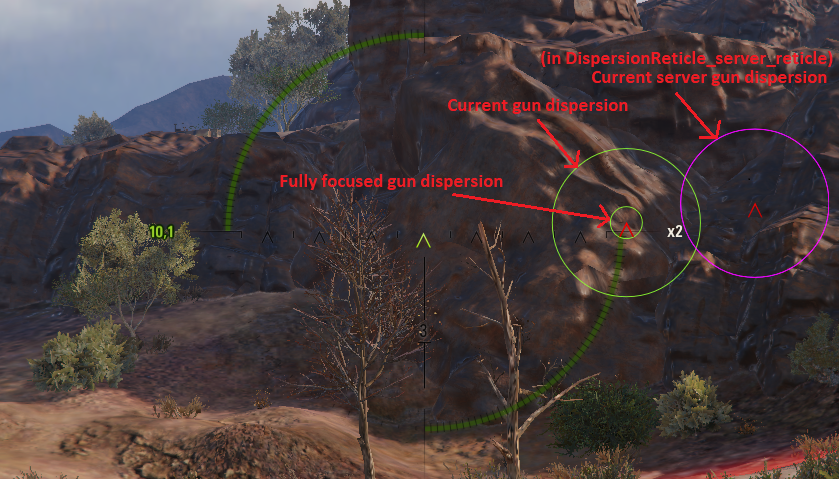
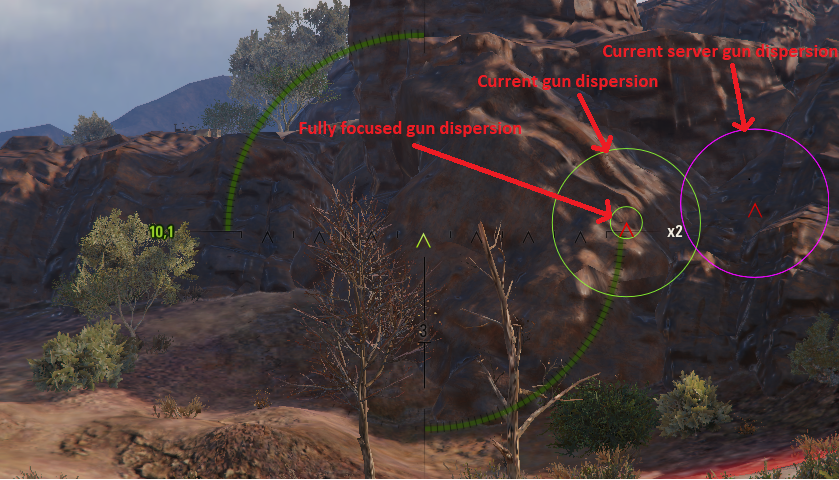
Support for server only reticle

Changed region(s): [[0.3409, 0.0938, 1.0, 0.4688], [0.6508, 0.2812, 0.7128, 0.3438], [0.7128, 0.2812, 0.7437, 0.3125]]

diff --git a/src/mod_DispersionReticle.py b/src/mod_DispersionReticle.py
@@ -24,10 +24,19 @@ from gui.battle_control.controllers.crosshair_proxy import _GUN_MARKERS_SET_IDS
 # One is normal, the second is with both client and server reticle.
 # Because there are no very much changes between
 # them, they're merged into one file.
-MOD_VERSION_NORMAL = 0
-MOD_VERSION_CLIENT_SERVER = 1
+MOD_VERSION_DISP = 0
+MOD_VERSION_DISP_CLIENT_SERVER = 1
+MOD_VERSION_CLIENT_SERVER = 2
 
-MOD_VERSION_CURRENT = MOD_VERSION_NORMAL
+MOD_VERSION_CURRENT = MOD_VERSION_CLIENT_SERVER
+
+
+def is_version_disp():
+    return MOD_VERSION_CURRENT == MOD_VERSION_DISP or MOD_VERSION_CURRENT == MOD_VERSION_DISP_CLIENT_SERVER
+
+
+def is_version_server():
+    return MOD_VERSION_CURRENT == MOD_VERSION_CLIENT_SERVER or MOD_VERSION_CURRENT == MOD_VERSION_DISP_CLIENT_SERVER
 
 
 # Utility decorator to override function in certain class/module
@@ -176,16 +185,21 @@ class _NewControlMarkersFactory(_ControlMarkersFactory):
     def _createDefaultMarkers(self):
         markerType = self._getMarkerType()
 
-        if MOD_VERSION_CURRENT == MOD_VERSION_CLIENT_SERVER:
+        if is_version_server():
             clientType = selectProperType(GUN_MARKER_TYPE.CLIENT, markerType)
             clientFocusType = selectProperType(GUN_MARKER_TYPE_CLIENT_FOCUS, markerType)
             serverType = selectProperType(GUN_MARKER_TYPE.SERVER, markerType)
 
-            result = (
-                self._createArcadeMarker(clientType, _CONSTANTS.ARCADE_GUN_MARKER_NAME),
-                self._createArcadeMarker(clientFocusType, ARCADE_FOCUS_GUN_MARKER_NAME),
-                self._createSniperMarker(clientType, _CONSTANTS.SNIPER_GUN_MARKER_NAME),
-                self._createSniperMarker(clientFocusType, SNIPER_FOCUS_GUN_MARKER_NAME))
+            if is_version_disp():
+                result = (
+                    self._createArcadeMarker(clientType, _CONSTANTS.ARCADE_GUN_MARKER_NAME),
+                    self._createArcadeMarker(clientFocusType, ARCADE_FOCUS_GUN_MARKER_NAME),
+                    self._createSniperMarker(clientType, _CONSTANTS.SNIPER_GUN_MARKER_NAME),
+                    self._createSniperMarker(clientFocusType, SNIPER_FOCUS_GUN_MARKER_NAME))
+            else:
+                result = (
+                    self._createArcadeMarker(clientType, _CONSTANTS.ARCADE_GUN_MARKER_NAME),
+                    self._createSniperMarker(clientType, _CONSTANTS.SNIPER_GUN_MARKER_NAME))
 
             if markerType == GUN_MARKER_TYPE.SERVER:
                 result += (
@@ -204,16 +218,21 @@ class _NewControlMarkersFactory(_ControlMarkersFactory):
     def _createSPGMarkers(self):
         markerType = self._getMarkerType()
 
-        if MOD_VERSION_CURRENT == MOD_VERSION_CLIENT_SERVER:
+        if is_version_server():
             clientType = selectProperType(GUN_MARKER_TYPE.CLIENT, markerType)
             clientFocusType = selectProperType(GUN_MARKER_TYPE_CLIENT_FOCUS, markerType)
             serverType = selectProperType(GUN_MARKER_TYPE.SERVER, markerType)
 
-            result = (
-                self._createArcadeMarker(clientType, _CONSTANTS.ARCADE_GUN_MARKER_NAME),
-                self._createArcadeMarker(clientFocusType, ARCADE_FOCUS_GUN_MARKER_NAME),
-                self._createSPGMarker(clientType, _CONSTANTS.SPG_GUN_MARKER_NAME),
-                self._createSPGMarker(clientFocusType, SPG_FOCUS_GUN_MARKER_NAME))
+            if is_version_disp():
+                result = (
+                    self._createArcadeMarker(clientType, _CONSTANTS.ARCADE_GUN_MARKER_NAME),
+                    self._createArcadeMarker(clientFocusType, ARCADE_FOCUS_GUN_MARKER_NAME),
+                    self._createSPGMarker(clientType, _CONSTANTS.SPG_GUN_MARKER_NAME),
+                    self._createSPGMarker(clientFocusType, SPG_FOCUS_GUN_MARKER_NAME))
+            else:
+                result = (
+                    self._createArcadeMarker(clientType, _CONSTANTS.ARCADE_GUN_MARKER_NAME),
+                    self._createSPGMarker(clientType, _CONSTANTS.SPG_GUN_MARKER_NAME))
 
             if markerType == GUN_MARKER_TYPE.SERVER:
                 result += (
@@ -232,16 +251,21 @@ class _NewControlMarkersFactory(_ControlMarkersFactory):
     def _createDualGunMarkers(self):
         markerType = self._getMarkerType()
 
-        if MOD_VERSION_CURRENT == MOD_VERSION_CLIENT_SERVER:
+        if is_version_server():
             clientType = selectProperType(GUN_MARKER_TYPE.CLIENT, markerType)
             clientFocusType = selectProperType(GUN_MARKER_TYPE_CLIENT_FOCUS, markerType)
             serverType = selectProperType(GUN_MARKER_TYPE.SERVER, markerType)
 
-            result = (
-                self._createArcadeMarker(clientType, _CONSTANTS.DUAL_GUN_ARCADE_MARKER_NAME),
-                self._createArcadeMarker(clientFocusType, DUAL_FOCUS_GUN_ARCADE_MARKER_NAME),
-                self._createSniperMarker(clientType, _CONSTANTS.DUAL_GUN_SNIPER_MARKER_NAME),
-                self._createSniperMarker(clientFocusType, DUAL_FOCUS_GUN_SNIPER_MARKER_NAME))
+            if is_version_disp():
+                result = (
+                    self._createArcadeMarker(clientType, _CONSTANTS.DUAL_GUN_ARCADE_MARKER_NAME),
+                    self._createArcadeMarker(clientFocusType, DUAL_FOCUS_GUN_ARCADE_MARKER_NAME),
+                    self._createSniperMarker(clientType, _CONSTANTS.DUAL_GUN_SNIPER_MARKER_NAME),
+                    self._createSniperMarker(clientFocusType, DUAL_FOCUS_GUN_SNIPER_MARKER_NAME))
+            else:
+                result = (
+                    self._createArcadeMarker(clientType, _CONSTANTS.DUAL_GUN_ARCADE_MARKER_NAME),
+                    self._createSniperMarker(clientType, _CONSTANTS.DUAL_GUN_SNIPER_MARKER_NAME))
 
             if markerType == GUN_MARKER_TYPE.SERVER:
                 result += (
@@ -444,14 +468,14 @@ def createGunMarker(func, isStrategic):
 
 @overrideIn(gun_marker_ctrl)
 def useClientGunMarker(func):
-    if MOD_VERSION_CURRENT == MOD_VERSION_CLIENT_SERVER:
+    if is_version_server():
         return True
     return func()
 
 
 @overrideIn(gun_marker_ctrl)
 def useDefaultGunMarkers(func):
-    if MOD_VERSION_CURRENT == MOD_VERSION_CLIENT_SERVER:
+    if is_version_server():
         return False
     return func()
 

diff --git a/README.md b/README.md
@@ -4,10 +4,18 @@ Updated and completely reworked mod that adds additional circle displaying fully
 Original idea by **StranikS_Scan**, completely reworked by me.
 
 ## Features
+**DispersionReticle**:
+- closest to vanilla behavior
 - shows additional reticle displaying fully focused dispersion of a gun
 - works well with "Use server reticle" option from game settings
 - works well in replays
-- (DispersionReticle_server_reticle) display both client and server reticles with "Use server reticle" option
+
+**DispersionReticle_server**:
+- always shows client reticle only (without dispersion reticle)
+- **"Use server reticle"** option additionally shows server reticle
+
+**DispersionReticle_all**:
+- combines features of **DispersionReticle** and **DispersionReticle_server**
 
 ## Resource
 - [WGMods](https://wgmods.net/5251/)
@@ -18,14 +26,19 @@ Original idea by **StranikS_Scan**, completely reworked by me.
 For vanilla behavior with gun dispersion (adds dispersion reticle to client/server reticle):
 - Copy "DispersionReticle.wotmod" file into "[WoT game directory]/mods/[version]/" directory
 
-For both client and server crosshair with gun dispersion:
-- Copy "DispersionReticle_server_reticle.wotmod" file into "[WoT game directory]/mods/[version]/" directory
+For both client and server crosshair only:
+- Copy "DispersionReticle_server.wotmod" file into "[WoT game directory]/mods/[version]/" directory
 
-Note: Choose *ONLY ONE* of them
+For both client and server crosshair with gun dispersion:
+- Copy "DispersionReticle_all.wotmod" file into "[WoT game directory]/mods/[version]/" directory
+
+Note: Choose **ONLY ONE** of them
 
 ## Compatibility
 This mod **IS NOT** compatible with mods adding **client+server marker** at once.
 
-Use "DispersionReticle_server_reticle.wotmod" for similar functionality instead.
+Use "DispersionReticle_server.wotmod" or "DispersionReticle_all.wotmod" for
+similar functionality instead.
 
-However, it should be compatible with any crosshair mods that changes how crosshair or reticle looks like.
+However, it should be compatible with any crosshair mods that changes
+how crosshair or reticle looks like.
